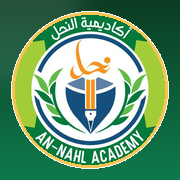
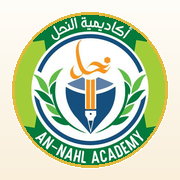
Add files via upload

diff --git a/index.html b/index.html
@@ -4,7 +4,7 @@
     <meta charset="UTF-8" />
     <link rel="icon" type="image/png" href="/an-nahl-logo.png" />
     <link rel="manifest" href="/manifest.webmanifest" />
-    <meta name="theme-color" content="#0e7a4b" />
+    <meta name="theme-color" content="#fffaf0" />
     <meta name="mobile-web-app-capable" content="yes" />
     <meta name="apple-mobile-web-app-capable" content="yes" />
     <meta name="apple-mobile-web-app-status-bar-style" content="black-translucent" />
